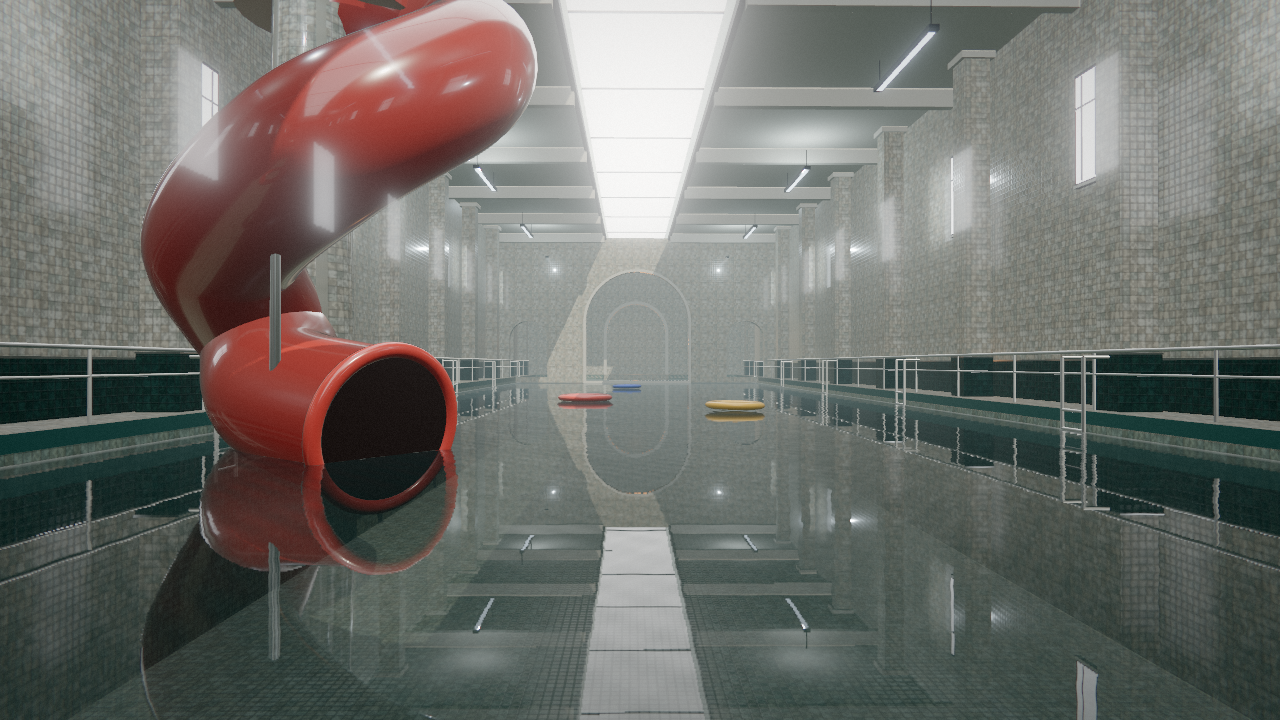
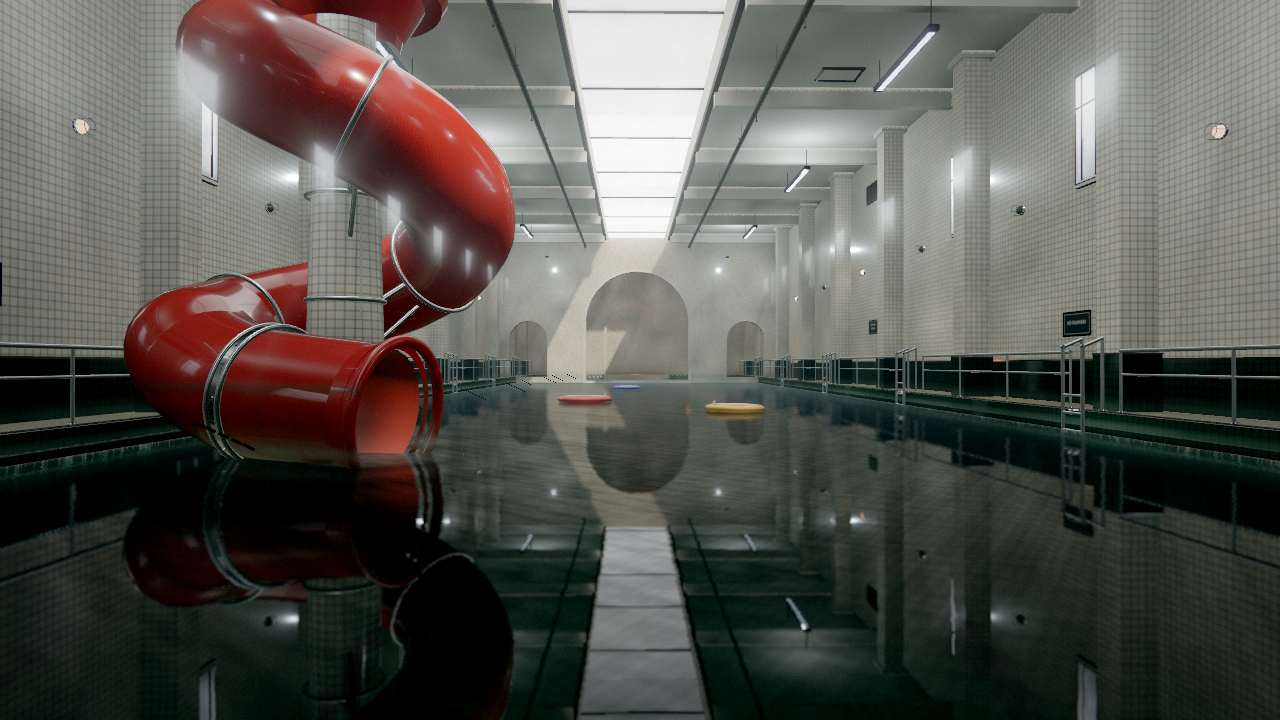
post: final tuning evidence on the owner-rev1 integrated head
Refresh docs/evidence post-* stills after w1 fog/IBL correction, w3 dark-water
repair and w5 reframe; add post-after-arch-720, a 2.39:1 proof with measured
138/138 px bars and a 1:1 4K skylight crop. Record final constants, display
statistics, determinism hashes, perf and letterbox numbers in
docs/evidence/post-tuning.md. No scene or render code changes in this commit
(tuning constants landed in 2a565c8 and 86ade6e).

diff --git a/docs/evidence/post-tuning.md b/docs/evidence/post-tuning.md
@@ -1,0 +1,70 @@
+# Post tuning evidence — owner rev-1 correction
+
+Measured on the integrated head after w1 lighting (fog/IBL correction), w4 tile,
+w2 props, w5 camera reframe and w3 water repair were accepted. The post tuning
+commit is the one this file lands with; the scene code is unchanged by it.
+
+Hardware: RTX 3060, headed Chrome on DISPLAY=:0, WebGL2, 1920×1080 ultra for the
+seven stills (355 draw calls, 96.1k triangles on arrival).
+
+## Final post constants (`src/core/post.ts`, `src/render/PostPipeline.ts`)
+
+| Stage | Value |
+| --- | --- |
+| Display transform | AgX (three.js r186/Filament port); ACES selectable via the same uniform |
+| Exposure | 1.20 (App → `PostPipeline`) |
+| sRGB encode | exact piecewise OETF, applied once |
+| Grade | saturation 1.11, contrast 1.15, cool-shadow / warm-highlight split |
+| Bloom source | half-res emissive-mask pass (layer 1; `toneMapped === false` or `userData.bloom === true`) |
+| Bloom threshold / knee / chain gain | 1.5 / 0.35 / 0.55 (App 0.34 → effective ≈ 0.19) |
+| Grain | 0.017 monochrome triangular, quantised to 24 fps, pixel+frame seeded |
+| Dither | triangular, ±0.5 LSB |
+| CA | edge-only, zero at frame centre, ≤2 px at 1920×1080 corners |
+| Vignette | 0.24 |
+| Letterbox | optional 2.39:1 |
+
+## Measured display statistics (final PNGs, sRGB display luminance 0–1)
+
+| shot | mean | p50 | p95 | p99 | clipped |
+| --- | --- | --- | --- | --- | --- |
+| arrival | 0.331 | 0.306 | 0.741 | 0.960 | 0.01 % |
+| flume | 0.390 | 0.429 | 0.818 | 0.894 | 0.04 % |
+| ring | 0.223 | 0.164 | 0.599 | 0.731 | 0 % |
+| arch | 0.401 | 0.456 | 0.757 | 0.909 | 0.01 % |
+| skylight | 0.497 | 0.529 | 0.928 | 0.992 | 0.29 % |
+| tile | 0.268 | 0.197 | 0.621 | 0.649 | 0 % |
+| float | 0.329 | 0.330 | 0.655 | 0.822 | 0.01 % |
+
+Neutral warm-tile pixels only (excludes water, windows, teal bands, flume):
+arrival p50 0.518 / p90 0.769 · arch 0.555 / 0.781 · skylight 0.561 / 0.857 ·
+tile 0.570 / 0.661 · float 0.523 / 0.634. Lit glaze sits in the
+ART_DIRECTION 0.72–0.85 band; the deep blacks in the frames are the water body.
+
+## Letterbox
+
+`pnpm shot -- --shot=arrival --letterbox --width=1920 --height=1080 --time=2.4`:
+top bar 138 px, bottom bar 138 px, visible image 1920×804 → aspect 2.388 (target
+2.39). Stills without `--letterbox` are clean 16:9.
+
+## Verification
+
+- `pnpm typecheck`, `pnpm test` (102 tests), `pnpm build` pass.
+- `pnpm determinism`: shot-arrival-1080p and cinematic-1080p both
+  `identical=true idempotent=true transforms=true`
+  (shot sha256 `b66edbe02fabdc52…`, cinematic `c62c362cc5e6f9f9…` on this head).
+- `pnpm perf -- --shot=arrival --seconds=6 --skip-low`: 116.8 fps avg,
+  p50 7.9 ms, p95 13.7 ms, 355 draw calls, 96,054 triangles, one frame over
+  22.2 ms after warm-up.
+- Capture bench: no console errors or page errors on any of the seven stills;
+  the old `/favicon.ico` 404 is gone.
+- 4K sanity (3840×2160 arrival): no banding in the fog/ceiling gradations,
+  grout holds at 1:1, skylight keeps bay/mullion structure, grain+dither subtle
+  (`post-4k-skylight-crop.png`).
+
+## Files
+
+- `post-before-arrival-720.png` — baseline post (commit 2cb5a88).
+- `post-after-arrival-720.png`, `post-after-tile-720.png`,
+  `post-after-arch-720.png` — final tuning on the integrated head.
+- `post-letterbox-arrival-1920.png` — 2.39:1 proof.
+- `post-4k-skylight-crop.png` — 1:1 4K highlight/dither check.
